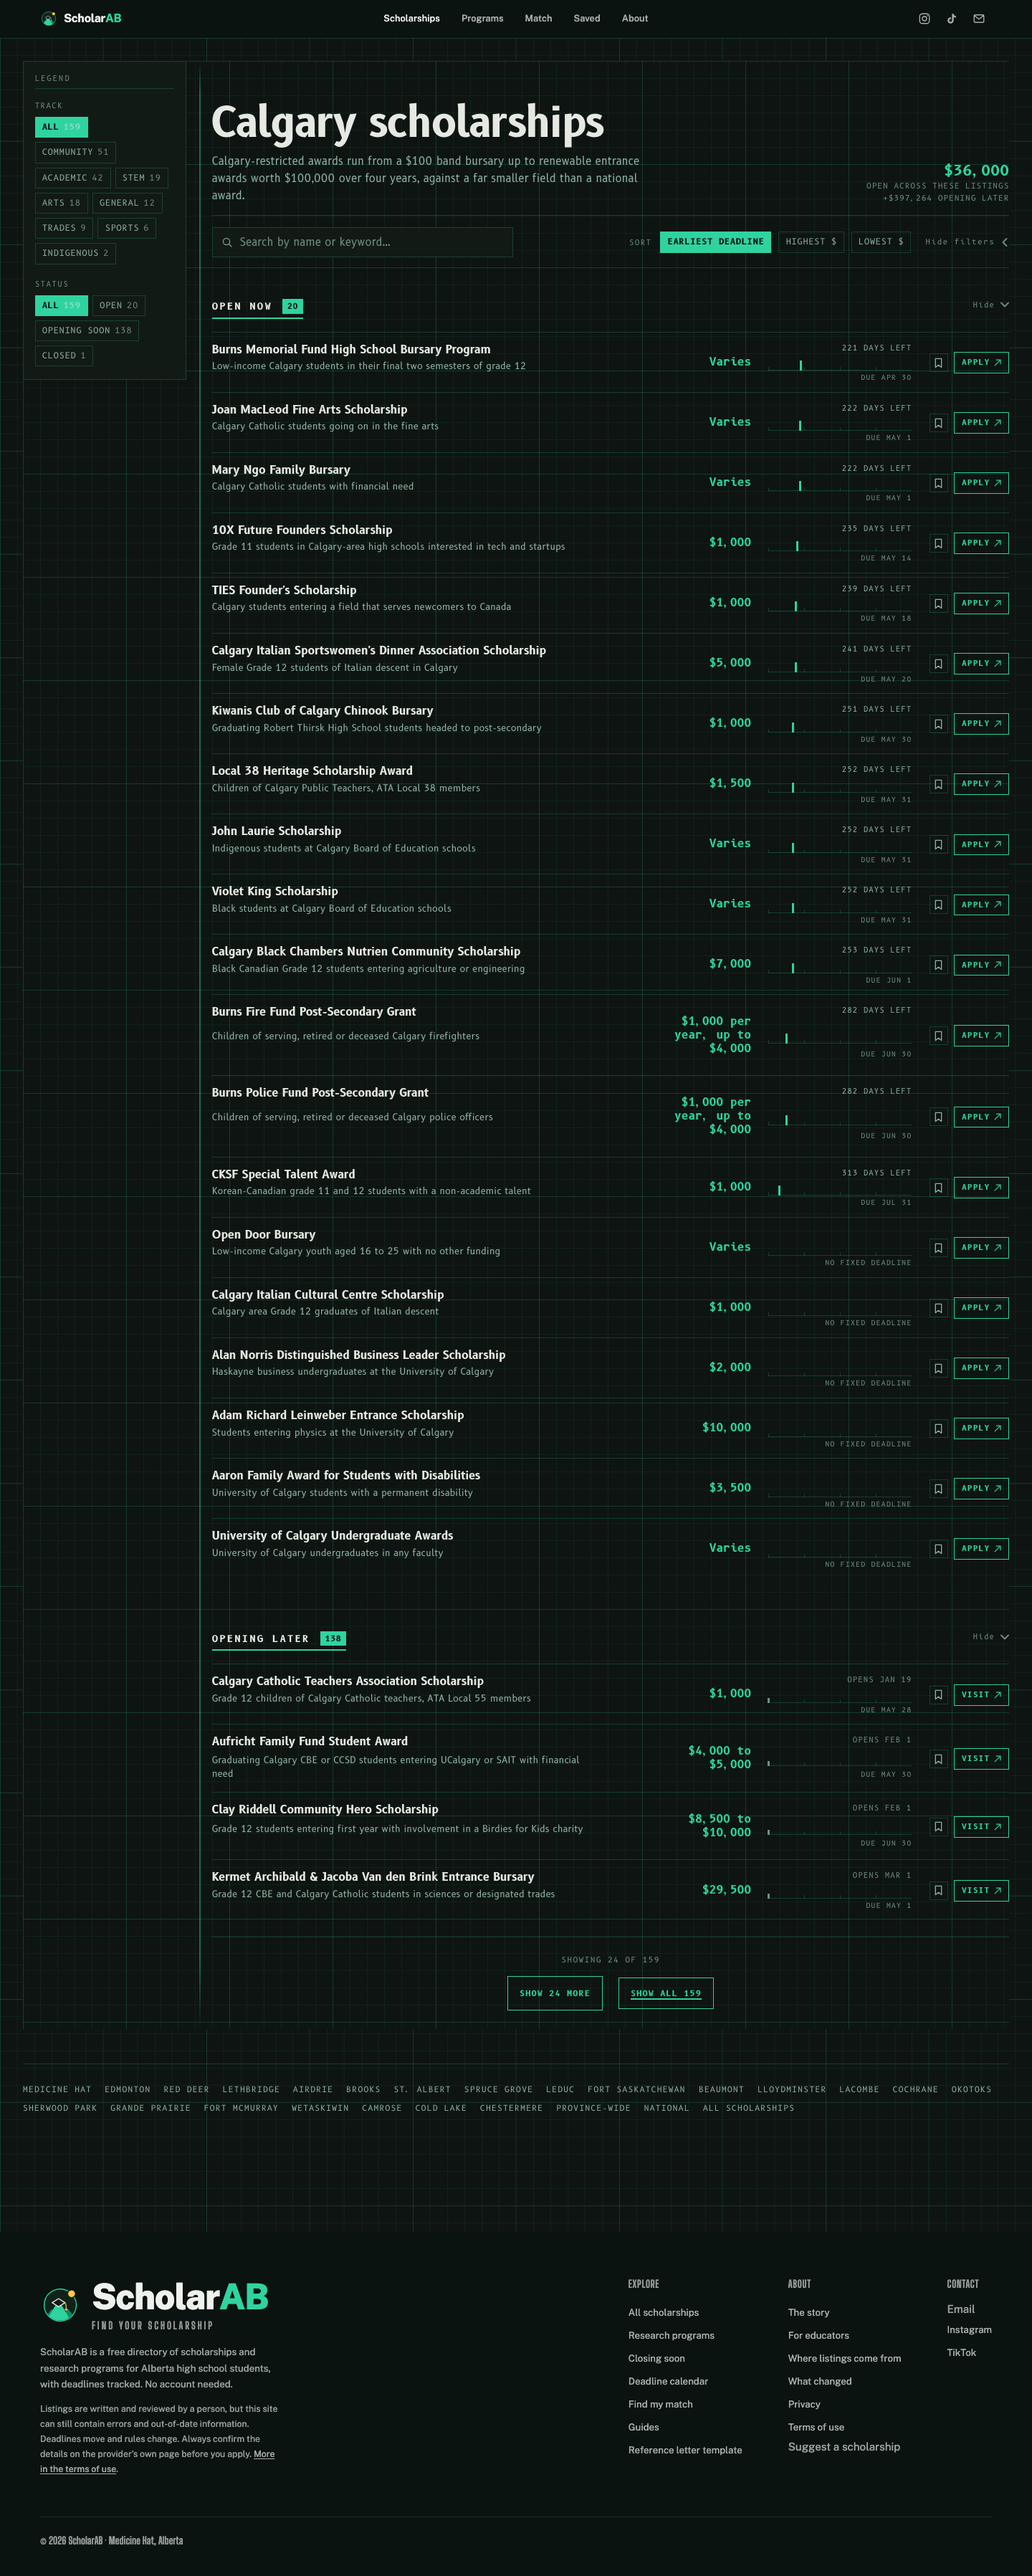
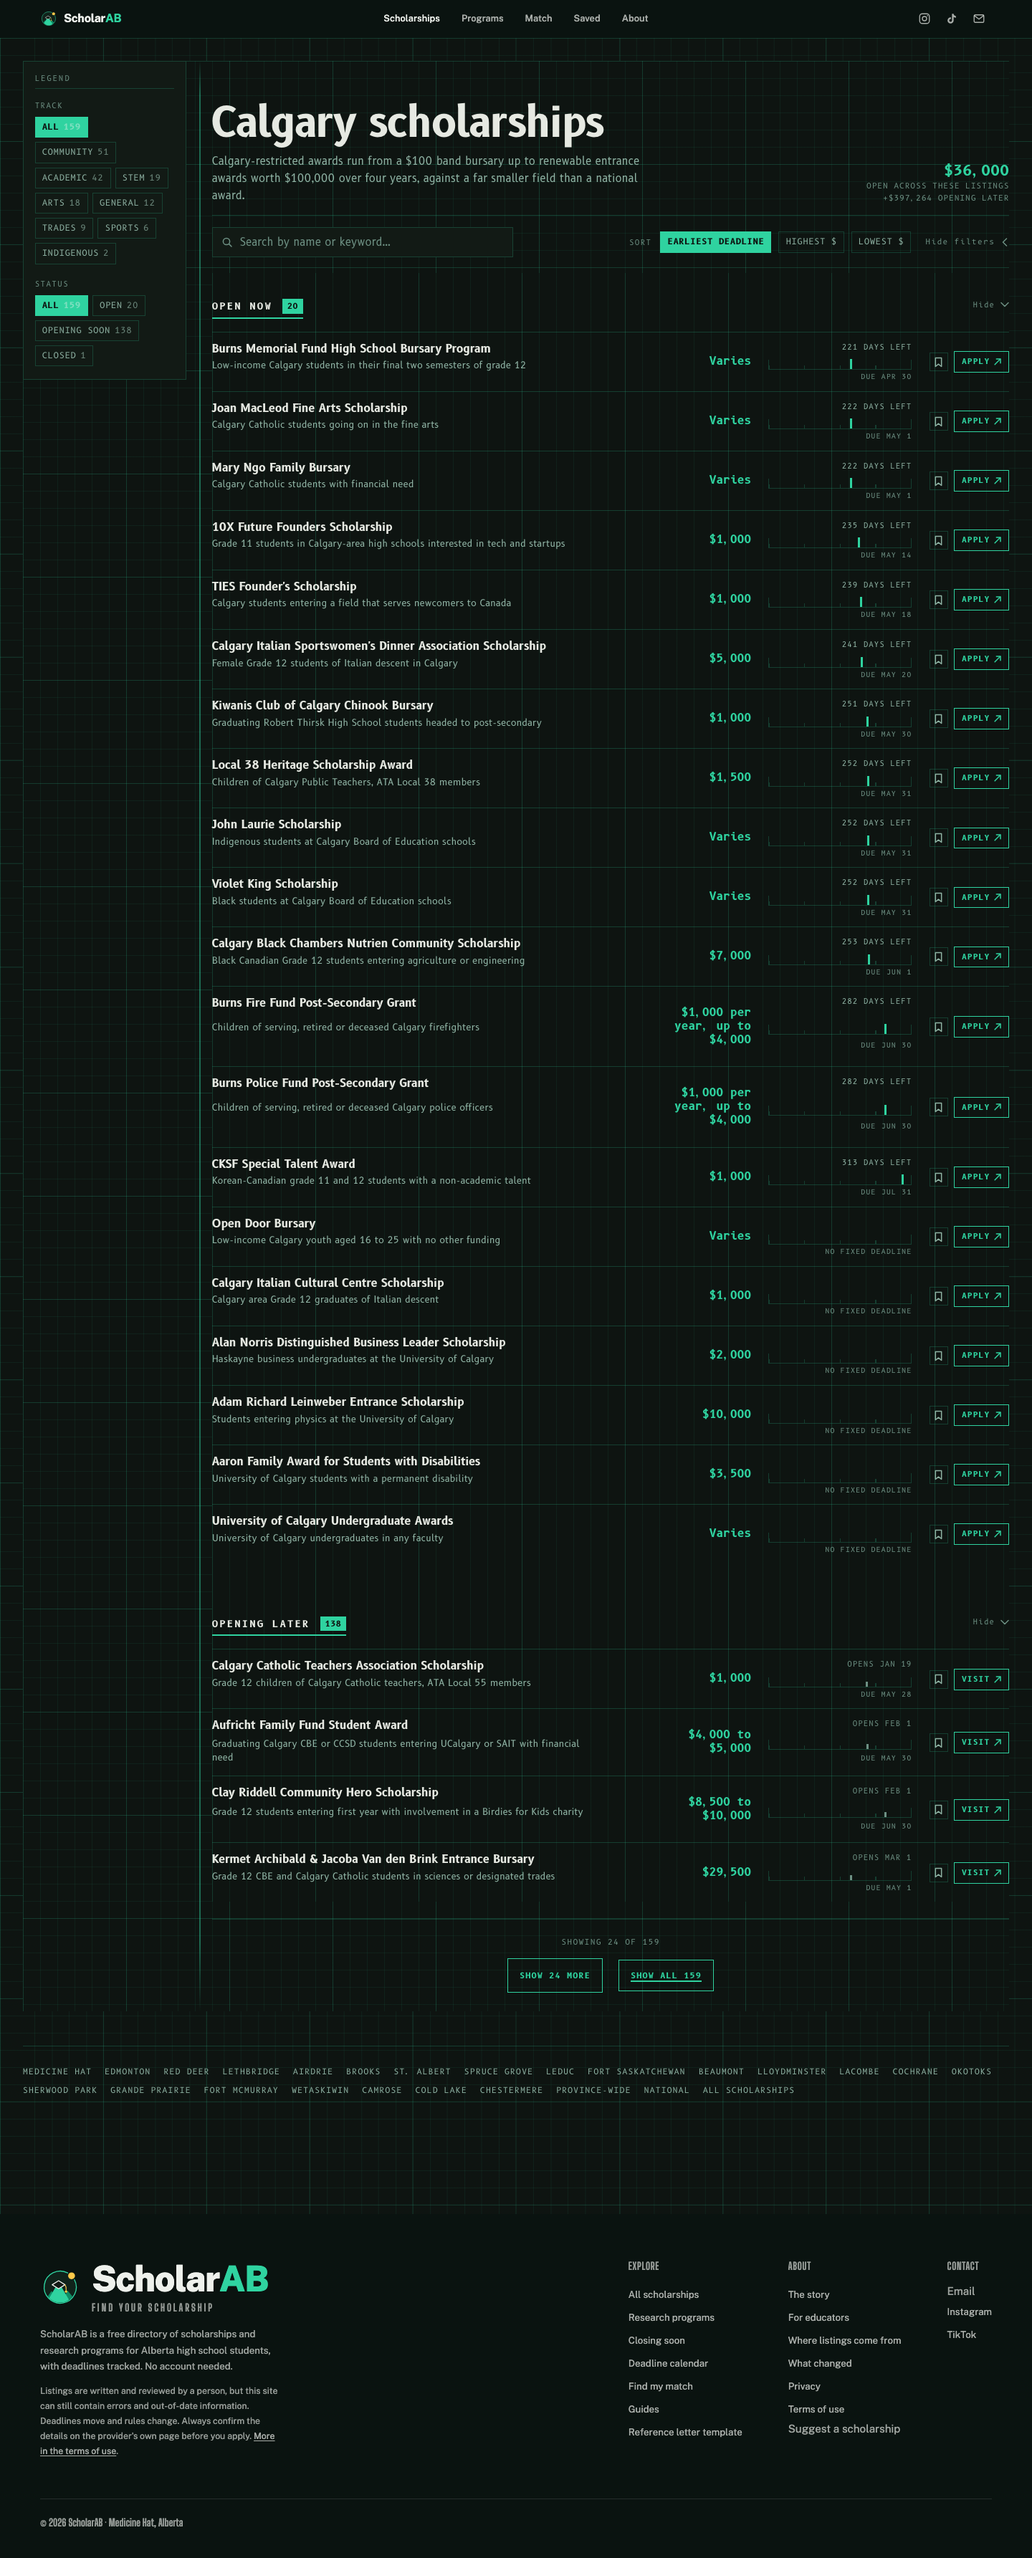
Bug fixes, minor improvements, and more.

diff --git a/src/styles/survey-grid.css b/src/styles/survey-grid.css
@@ -127,24 +127,43 @@ body:has(.sg) {
 
 .sg .sabl-railed { position: relative; }
 
+/* The spine. Above 1180px it is the seam between the legend and the field, a
+   real structural line rather than a decoration over the content. Below that
+   there is no legend column to seam, so it becomes the sheet's bound edge,
+   which is where a survey sheet carries its heavy rule anyway. Either way the
+   sheet has a spine at every width, including the phone this world was
+   decided for. */
+.sg .sabl-railed::before {
+  content: '';
+  position: absolute;
+  top: 0;
+  bottom: 0;
+  left: -10px;
+  width: 2px;
+  background: linear-gradient(
+    to bottom,
+    transparent 0,
+    var(--sg-line) calc(var(--sg-unit) * 2),
+    var(--sg-line) calc(100% - var(--sg-unit) * 4),
+    transparent 100%
+  );
+  opacity: 0.45;
+  pointer-events: none;
+}
+
 @media (min-width: 1180px) {
-  .sg .sabl-railed::before {
-    content: '';
-    position: absolute;
-    top: 0;
-    bottom: 0;
-    left: calc(var(--sg-rail-w, 228px) + (var(--sg-gap, 36px) / 2));
-    width: 2px;
-    background: linear-gradient(
-      to bottom,
-      transparent 0,
-      var(--sg-line) calc(var(--sg-unit) * 2),
-      var(--sg-line) calc(100% - var(--sg-unit) * 4),
-      transparent 100%
-    );
-    opacity: 0.45;
-    pointer-events: none;
-  }
+  .sg .sabl-railed::before { left: calc(var(--sg-rail-w, 228px) + (var(--sg-gap, 36px) / 2)); }
+}
+
+/* Raise 2, authored rather than inherited: hiding the legend is one control
+   that restructures the whole field. The spine leaves the seam it registered
+   to and returns to the sheet's edge, and the field spends the reclaimed
+   column on the two things the reader kept: the description and the rail they
+   read the deadline against. */
+@media (min-width: 1180px) {
+  html[data-lean] .sg .sabl-railed::before { left: -10px; }
+  html[data-lean] .sg .sabl-card { grid-template-columns: minmax(0, 1fr) 150px 300px 112px; }
+  html[data-lean] .sg .sabl-blurb { max-width: 84ch; }
 }
 
 /* ── The legend block ──────────────────────────────────────────────────────
@@ -265,14 +284,32 @@ html.js .sg .sabl-filters-btn[aria-expanded='true'] {
 }
 .sg .sabl-group-toggle { color: var(--sg-dim); font-family: 'B612 Mono', monospace; font-size: 10px; letter-spacing: 0.12em; }
 
+/* One stroke across the whole icon set. The carets predate this world and were
+   44% heavier than the marks drawn for it. */
+.sg .sabl-group-caret path,
+.sg .sabl-lean-caret path { stroke-width: 1.5; }
+
 /* ── Entries ───────────────────────────────────────────────────────────────
    No cards. Each award is a parcel on the sheet: ruled top and bottom, its
    figures in a fixed column, its deadline measured against the graticule that
    every other entry is measured against. */
 
+/* In the margins the sheet is ruled both ways. In the field it is not, and
+   that is the survey's own structure rather than a concession: a township plat
+   keeps regular range verticals and lets parcels take whatever depth the land
+   gives them. The horizontal rule of this grid IS the parcel boundary, drawn
+   by each entry's own border, so there is no horizontal line left for a row to
+   miss. Entry depth follows the title, which wraps to one line or two.
+   The field takes the sheet colour so the margin's horizontal rules, which run
+   on a different origin, do not show through behind the parcels. */
 .sg .sabl-grid {
   display: block;
   padding-top: 0;
+  background-color: var(--sg-field);
+  background-image:
+    repeating-linear-gradient(to right, var(--sg-rule-6) 0 1px, transparent 1px calc(var(--sg-unit) * 6)),
+    repeating-linear-gradient(to right, var(--sg-rule) 0 1px, transparent 1px var(--sg-unit));
+  background-position: 0 0;
 }
 
 /* One measured row, four columns, the same four on every entry: what it is,
@@ -290,10 +327,24 @@ html.js .sg .sabl-filters-btn[aria-expanded='true'] {
   border-top: 1px solid var(--sg-hair);
   border-radius: 0;
   box-shadow: none;
-  padding: 14px 0 12px;
+  /* Three modules exactly. The rule under each entry is the grid's own line. */
+  min-height: calc(var(--sg-unit) * 3);
+  padding: 13px 0 12px;
+  position: relative;
   transition: background-color 0.12s ease;
 }
-.sg .sabl-card:hover { background: var(--sg-plate); }
+.sg .sabl-card:hover { background-color: var(--sg-plate); }
+/* FIRST VIEWPORT says the whole entry is the target, and the hover fill was
+   offering a click the row would not take. The title's own anchor is stretched
+   over the parcel, so the target is the row without a second link or any
+   script; the controls sit above it and keep their own hit areas. */
+.sg .sabl-name::after {
+  content: '';
+  position: absolute;
+  inset: 0;
+  z-index: 0;
+}
+.sg .sabl-card-actions { position: relative; z-index: 1; }
 .sg .sabl-card:last-of-type { border-bottom: 1px solid var(--sg-hair); }
 
 /* .sabl-card-top and .sabl-card-foot are wrappers the incumbent world needs
@@ -396,13 +447,14 @@ html.js .sg .sabl-filters-btn[aria-expanded='true'] {
   height: 14px;
   margin-top: 5px;
   align-self: center;
-}
-.sg .sg-scale::before {
-  content: '';
-  position: absolute;
-  inset: auto 0 0 0;
-  height: 1px;
-  background: var(--sg-hair);
+  /* The rail itself: a baseline and a post at each end, drawn as the box's own
+     borders rather than a stacked pseudo-element. Without the posts the rail
+     had no visible extent, so a tick's position said nothing about what it was
+     measured against. */
+  box-sizing: border-box;
+  border-bottom: 1px solid var(--sg-hair);
+  border-left: 1px solid var(--sg-hair);
+  border-right: 1px solid var(--sg-hair);
 }
 .sg .sg-scale::after {
   content: '';
@@ -425,10 +477,23 @@ html.js .sg .sabl-filters-btn[aria-expanded='true'] {
 /* The survey's three states, drawn as the survey draws them. */
 .sg .sabl-card[data-sg-mark='pending'] .sg-tick { background: var(--sg-dim); height: 7px; }
 .sg .sabl-card[data-sg-mark='undated'] .sg-tick { display: none; }
-.sg .sabl-card[data-sg-mark='cancelled'] { opacity: 0.55; }
-.sg .sabl-card[data-sg-mark='cancelled'] .sabl-amount { color: var(--sg-dim); }
+/* A cancelled parcel is struck on the sheet, not faded out. `opacity: 0.55`
+   over the whole entry composited its description to 3.29:1 and its date to
+   2.50:1, under the AA bar PRODUCT.md sets, and a wash is the generic web way
+   to say "less important" rather than anything a survey does. The parcel is
+   cross-ruled and its text steps down to the annotation ink, which still
+   measures 5.37:1. */
+.sg .sabl-card[data-sg-mark='cancelled'] {
+  background-image: repeating-linear-gradient(
+    -45deg,
+    var(--sg-hair) 0 1px,
+    transparent 1px 11px
+  );
+}
+.sg .sabl-card[data-sg-mark='cancelled'] .sabl-name,
+.sg .sabl-card[data-sg-mark='cancelled'] .sabl-amount,
+.sg .sabl-card[data-sg-mark='cancelled'] .sabl-blurb { color: var(--sg-dim); }
 .sg .sabl-card[data-sg-mark='cancelled'] .sg-tick { display: none; }
-.sg .sabl-card[data-sg-mark='cancelled'] .sg-scale::after { opacity: 0.35; }
 /* A cancelled parcel keeps its lines on the sheet: the name is struck, not
    removed, so the page shows its own upkeep instead of silently shrinking. */
 .sg .sabl-card[data-sg-mark='cancelled'] .sabl-name {

diff --git a/src/lib/survey.test.ts b/src/lib/survey.test.ts
@@ -1,29 +1,67 @@
 import { describe, it, expect } from 'vitest';
-import { SURVEY_HORIZON_DAYS, surveyReach, daysUntil, surveyMark } from './survey';
+import { surveySpan, surveyReach, daysUntil, surveyMark, surveyPlots } from './survey';
+
+describe('surveySpan', () => {
+  it('takes its edges from the entries on the sheet, not from the catalogue', () => {
+    // The Calgary case: nothing closes for 221 days, so a province-wide
+    // 365-day horizon put every open entry in the first fifth of the rail.
+    expect(surveySpan([221, 222, 235, 513])).toEqual({ near: 221, far: 513 });
+  });
+
+  it('keeps a non-zero width when every deadline falls on one day', () => {
+    expect(surveySpan([90, 90, 90])).toEqual({ near: 90, far: 91 });
+  });
+
+  it('ignores undated entries', () => {
+    expect(surveySpan([NaN, 10, NaN, 40])).toEqual({ near: 10, far: 40 });
+  });
+
+  it('survives a sheet with nothing dated on it', () => {
+    expect(surveySpan([])).toEqual({ near: 0, far: 1 });
+  });
+
+  it('never starts before today', () => {
+    expect(surveySpan([-30, 200]).near).toBe(0);
+  });
+});
 
 describe('surveyReach', () => {
-  it('puts today at the near edge and the horizon at the origin', () => {
-    expect(surveyReach(0)).toBe(1);
-    expect(surveyReach(SURVEY_HORIZON_DAYS)).toBe(0);
+  const span = { near: 221, far: 513 };
+
+  it('reads left to right: the nearest deadline at the near edge', () => {
+    expect(surveyReach(221, span)).toBe(0);
+    expect(surveyReach(513, span)).toBe(1);
   });
 
-  it('clamps past the horizon rather than going negative', () => {
-    expect(surveyReach(900)).toBe(0);
-    expect(surveyReach(-40)).toBe(1);
+  it('clamps outside the span rather than running off the rail', () => {
+    expect(surveyReach(10, span)).toBe(0);
+    expect(surveyReach(9000, span)).toBe(1);
   });
 
-  it('spends its resolution on the deadlines a student can still act on', () => {
-    // The point of the root: the first month has to occupy more of the track
-    // than the last three, or every actionable award lands in one pile.
-    const firstMonth = surveyReach(0) - surveyReach(30);
-    const lastQuarter = surveyReach(275) - surveyReach(365);
-    expect(firstMonth).toBeGreaterThan(lastQuarter);
-  });
-
-  it('is monotonic: a nearer deadline never reads as further away', () => {
-    for (let d = 1; d <= 365; d += 7) {
-      expect(surveyReach(d)).toBeLessThanOrEqual(surveyReach(d - 1));
+  it('is monotonic: a later deadline never reads as nearer', () => {
+    for (let d = span.near + 1; d <= span.far; d += 7) {
+      expect(surveyReach(d, span)).toBeGreaterThanOrEqual(surveyReach(d - 1, span));
     }
+  });
+
+  it('is linear, so equal gaps in time are equal gaps on the rail', () => {
+    // A root was tried here and removed: it relocated a cluster without
+    // widening it, because a cluster's width is a fact about the catalogue.
+    const a = surveyReach(250, span) - surveyReach(221, span);
+    const b = surveyReach(400, span) - surveyReach(371, span);
+    expect(Math.abs(a - b)).toBeLessThan(0.001);
+  });
+
+  it('places a real hub band where it actually falls on the year', () => {
+    // Calgary: nothing plotted before 78 days, nothing after 328, and every
+    // open award closing between 221 and 250. The band belongs mid-rail.
+    const calgary = { near: 78, far: 328 };
+    expect(surveyReach(221, calgary)).toBeGreaterThan(0.5);
+    expect(surveyReach(250, calgary)).toBeLessThan(0.75);
+  });
+
+  it('does not divide by zero on a degenerate span', () => {
+    expect(surveyReach(5, { near: 5, far: 5 })).toBe(0);
   });
 });
 
@@ -55,5 +93,17 @@ describe('surveyMark', () => {
 
   it('keeps a closed award on the sheet as cancelled', () => {
     expect(surveyMark('closed', '2026-01-01')).toBe('cancelled');
+  });
+});
+
+describe('surveyPlots', () => {
+  it('plots everything with a deadline, opened or not', () => {
+    expect(surveyPlots('surveyed')).toBe(true);
+    expect(surveyPlots('pending')).toBe(true);
+  });
+
+  it('plots nothing for an entry with no date to measure', () => {
+    expect(surveyPlots('undated')).toBe(false);
+    expect(surveyPlots('cancelled')).toBe(false);
   });
 });

diff --git a/src/lib/survey.ts b/src/lib/survey.ts
@@ -9,21 +9,56 @@
 // No import of data-loader here, same constraint as status.ts and list-core.ts:
 // the build scripts run this under a plain tsc.
 
-/** The far edge of the graticule. Past a year out, an entry sits at the origin. */
-export const SURVEY_HORIZON_DAYS = 365;
+/** The span a sheet is drawn against: its own nearest and furthest deadline. */
+export interface SurveySpan {
+  /** Days to the nearest deadline on this sheet. Sits at the near edge. */
+  near: number;
+  /** Days to the furthest. Sits at the origin. */
+  far: number;
+}
 
 /**
- * Where a deadline falls on the graticule, 0 at the horizon and 1 at today.
+ * The span for one hub, taken from the entries actually on it.
  *
- * Square-rooted rather than linear because the distribution is not: 117 of the
- * 153 dated awards in the catalogue fall in the next calendar year, so a linear
- * scale bunches everything a student can still act on into the last tenth of
- * the track and spreads the ones they cannot over the rest. The root spends the
- * resolution where the decisions are.
+ * This was a fixed 365-day horizon for the catalogue as a whole, and on a city
+ * hub that made the graticule useless: Calgary's nearest deadline is 221 days
+ * out, so all twenty open entries landed in the first fifth of the rail and the
+ * rest of it was empty on every row. A sheet is measured against the ground it
+ * covers, not against the province.
+ *
+ * Taken from every dated entry on the hub rather than from the filtered set, so
+ * that filtering the list never slides the ticks under the reader.
  */
-export function surveyReach(days: number): number {
-  const d = Math.max(0, Math.min(SURVEY_HORIZON_DAYS, days));
-  return +(1 - Math.sqrt(d / SURVEY_HORIZON_DAYS)).toFixed(4);
+export function surveySpan(days: number[]): SurveySpan {
+  const dated = days.filter(n => Number.isFinite(n));
+  if (dated.length === 0) return { near: 0, far: 1 };
+  const near = Math.max(0, Math.min(...dated));
+  // A hub whose deadlines all fall on one day still needs a non-zero width, or
+  // the division below is undefined and every tick stacks at the origin.
+  const far = Math.max(near + 1, Math.max(...dated));
+  return { near, far };
+}
+
+/**
+ * Where a deadline falls on this sheet's graticule: 0 at the near edge, 1 at
+ * the far one. Distance reads left to right, like every other measurement.
+ *
+ * Linear, and deliberately so. A root was tried first, to spend the rail's
+ * resolution on the soonest deadlines, and it was the wrong instinct: it moves
+ * a cluster to one end without making it any wider, because the width of a
+ * cluster is a fact about the catalogue and not about the scale. Calgary's
+ * twenty open awards all close inside twenty-nine days of a two-hundred-and
+ * -fifty-day sheet, so they occupy twelve per cent of the rail however it is
+ * drawn. What the reader needs is where that band sits, and a linear rule is
+ * the only one that answers that question honestly. Read down the column, the
+ * ticks line up into a vertical band, which is the sheet saying that every
+ * award you can apply to today closes in the same fortnight.
+ */
+export function surveyReach(days: number, span: SurveySpan): number {
+  const width = span.far - span.near;
+  if (width <= 0) return 0;
+  const d = Math.max(span.near, Math.min(span.far, days));
+  return +((d - span.near) / width).toFixed(4);
 }
 
 /** Whole days from `today` to an ISO date, both read as Alberta-local midnight. */
@@ -50,4 +85,16 @@ export function surveyMark(
   if (status === 'closed') return 'cancelled';
   if (status === 'future') return 'pending';
   return deadline ? 'surveyed' : 'undated';
+}
+
+/**
+ * Whether an entry is plotted at all.
+ *
+ * Every dated entry gets a tick, including the ones that have not opened yet:
+ * their deadlines are the far end of this sheet, and leaving them off left the
+ * whole right of the rail blank while their status was already being carried by
+ * the mark. Only undated entries have nothing to measure.
+ */
+export function surveyPlots(mark: SurveyMark): boolean {
+  return mark === 'surveyed' || mark === 'pending';
 }

diff --git a/PRODUCT.md b/PRODUCT.md
@@ -66,7 +66,10 @@ No ads, no account, no paywall, no email required to browse.
 - React runs only on /match and /admin. Everything else is server-rendered HTML
   with small vanilla controllers; new work extends those rather than adding
   islands.
-- One fixed light palette. There is no theme system and must not be one.
+- One fixed palette per surface, chosen from that surface's use scene and never
+  from a toggle. Light everywhere except the scholarship hubs, which are the
+  survey sheet and are dark because they are read on a phone in the evening.
+  There is no theme system and must not be one.
 - Analytics are consent-gated Google Analytics plus Cloudflare Web Analytics and
   first-party events, all zero-PII. The consent banner is required and stays.
 - Dual licensed: code AGPL-3.0, data CC BY-SA 4.0, name reserved.
